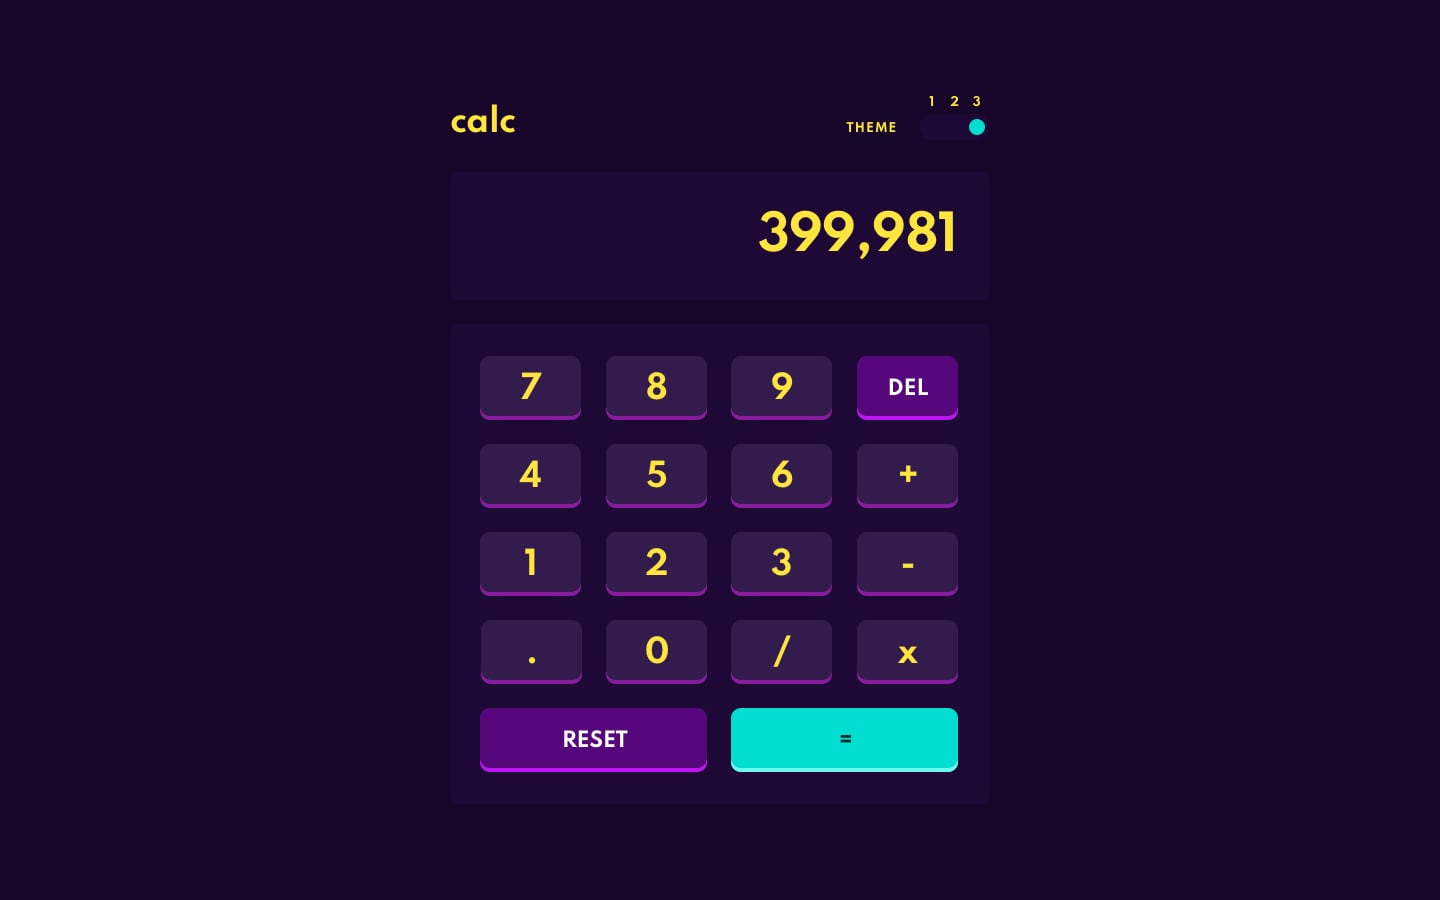
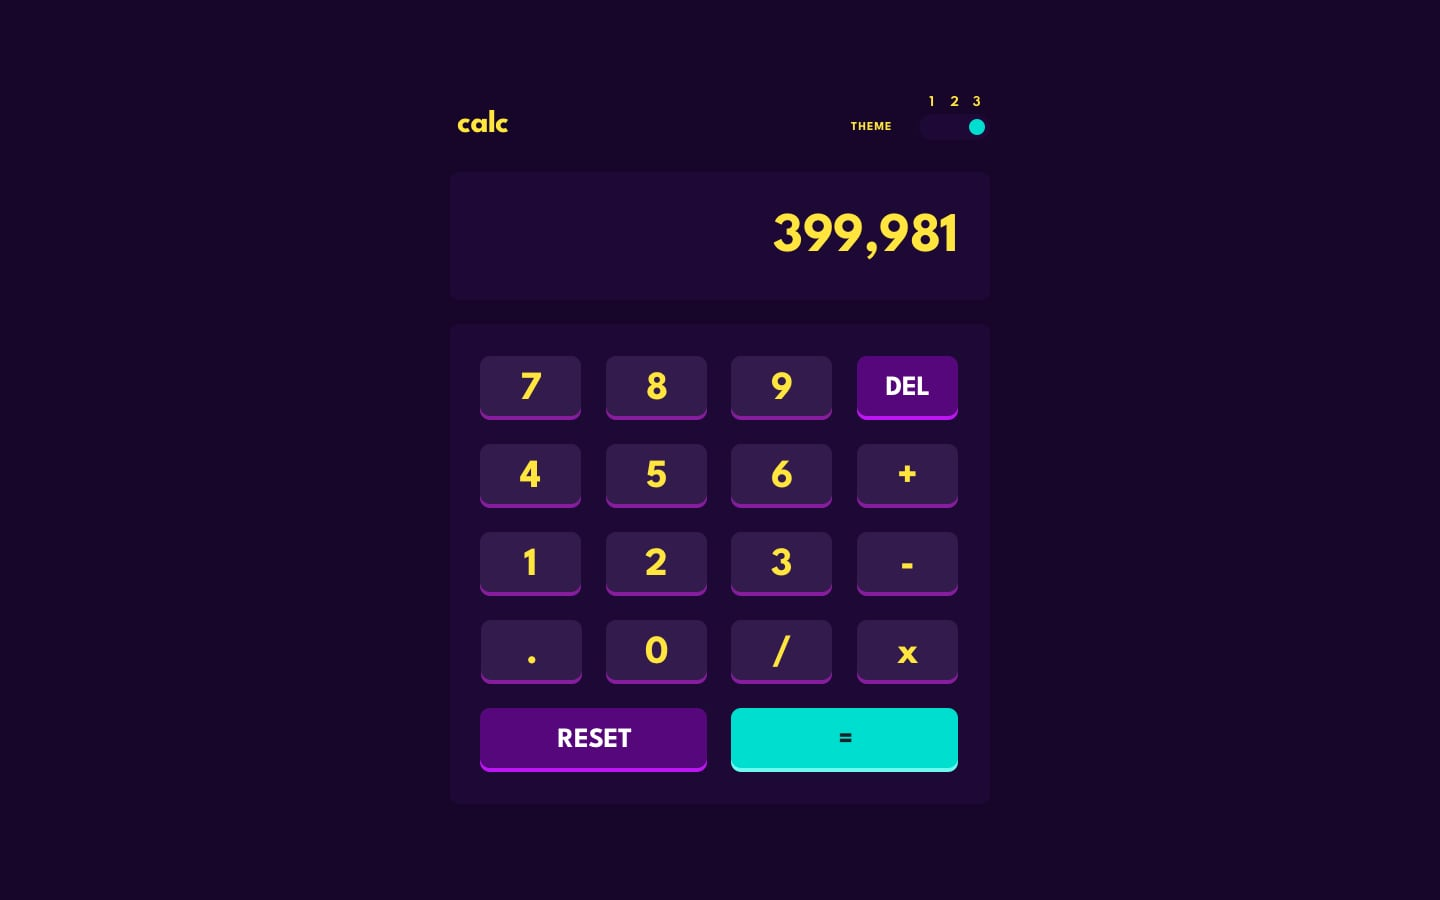
Update Spartan font to League Spartan

diff --git a/style-guide.md b/style-guide.md
@@ -89,5 +89,5 @@ The designs were created to the following widths:
 
 ### Font
 
-- Family: [Spartan](https://fonts.google.com/specimen/spartan)
+- Family: [League Spartan](https://fonts.google.com/specimen/League+Spartan)
 - Weights: 700
